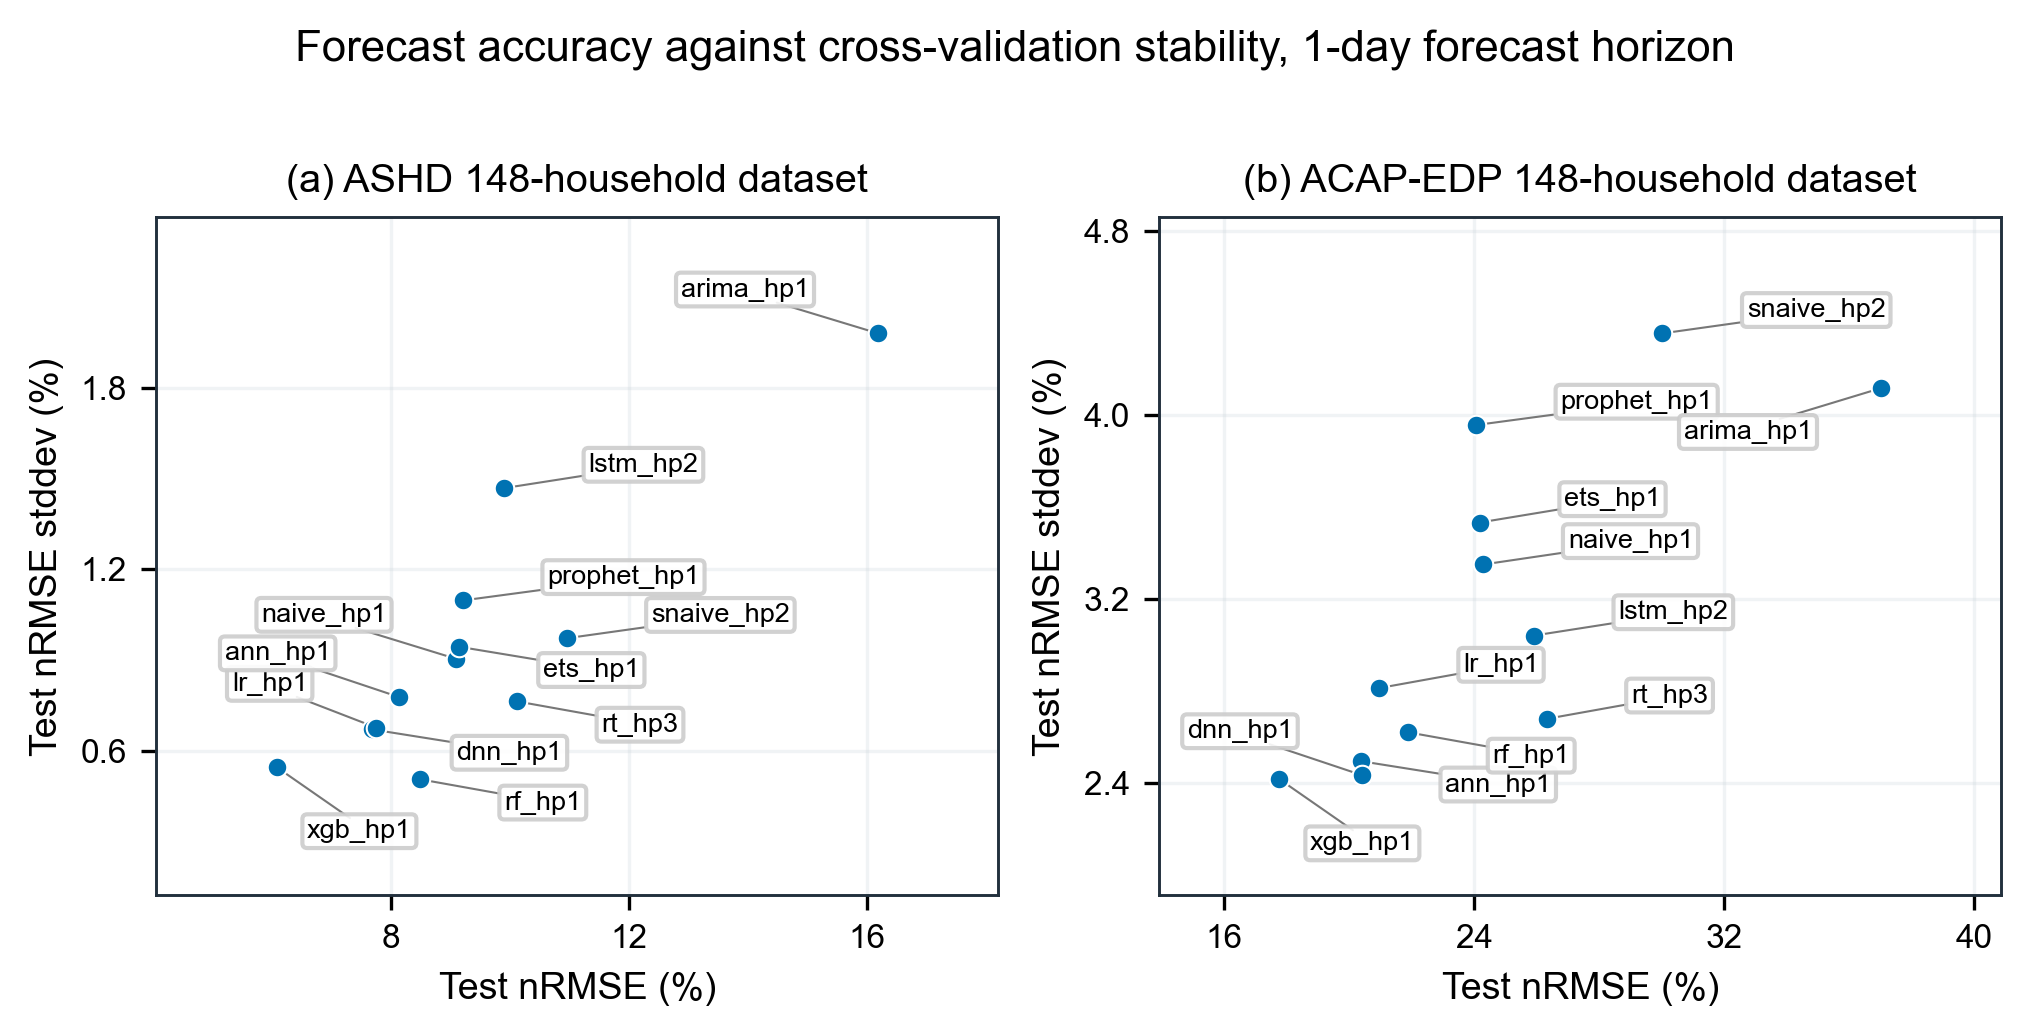
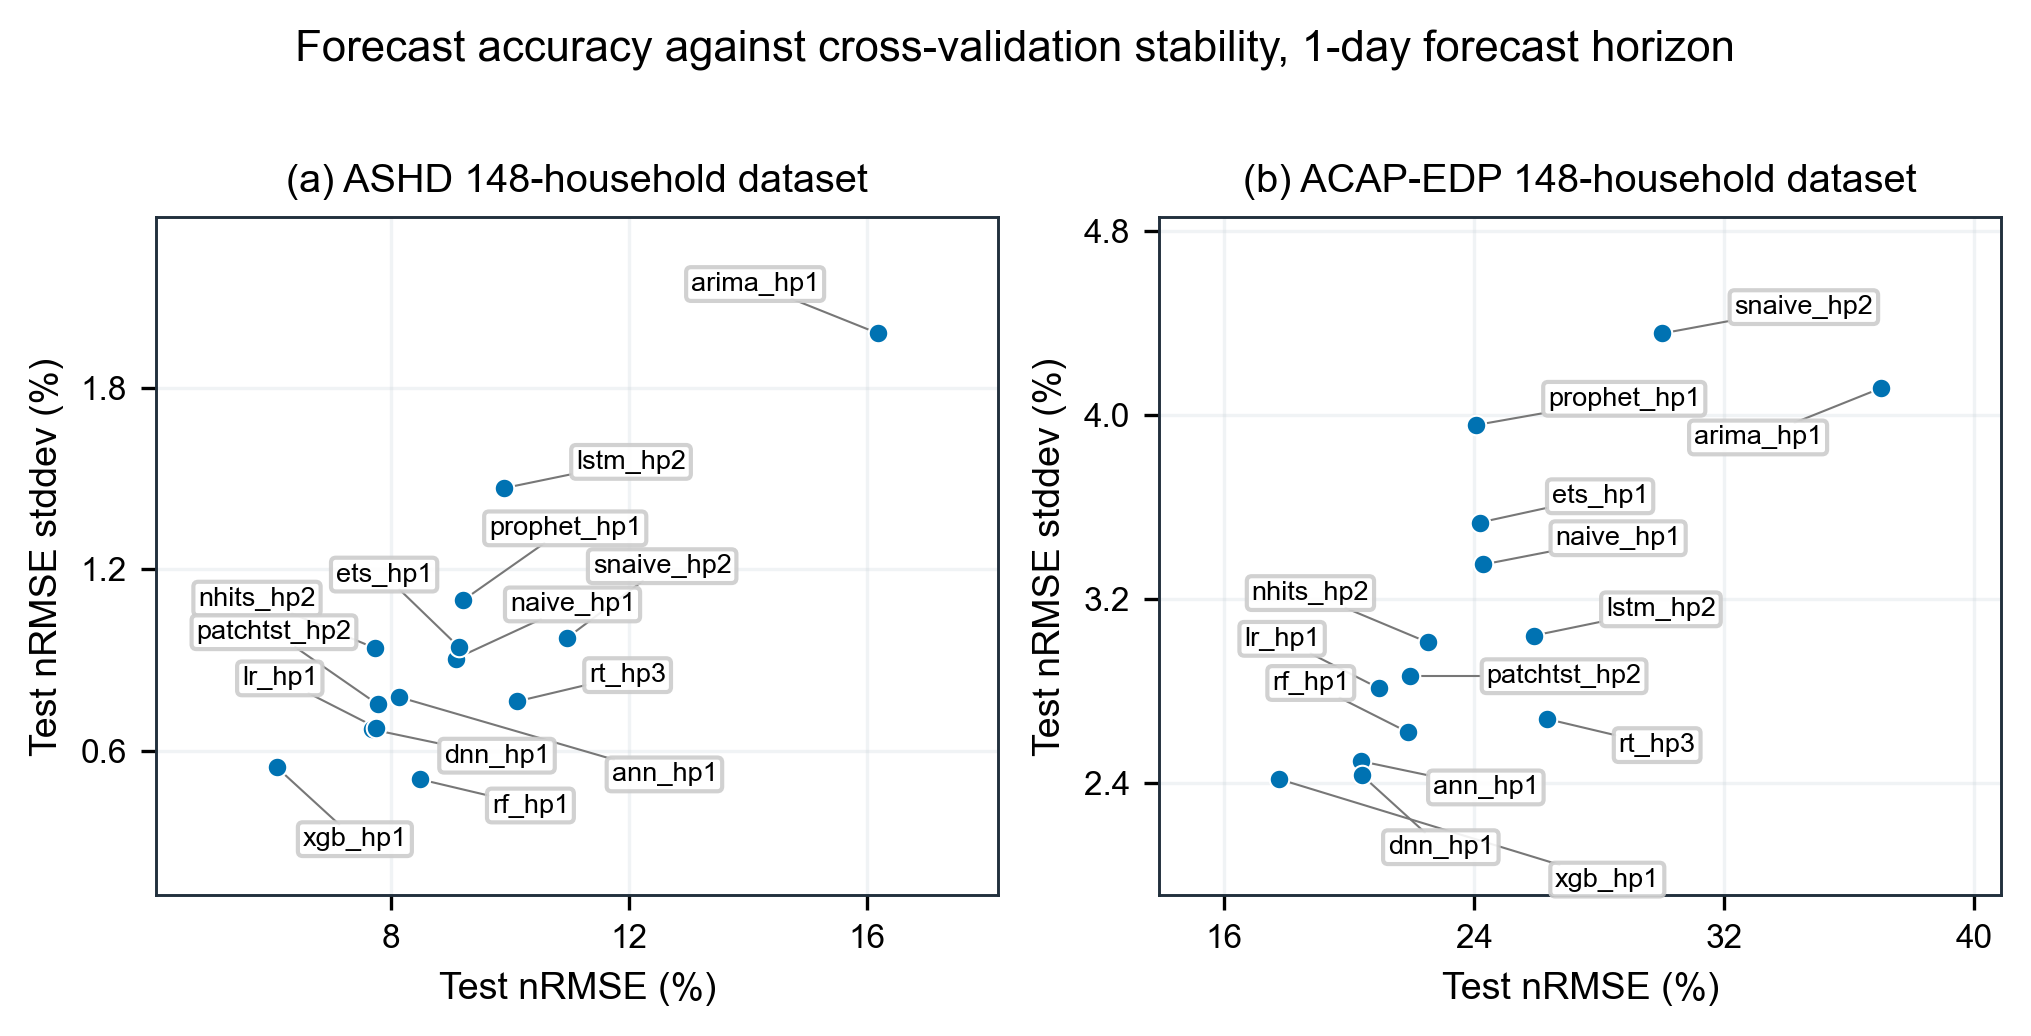
Show all 14 models in the accuracy-against-stability figure
- The two-dataset recap now carries N-HiTS and PatchTST, so figure 32 plots
  14 points per panel; short labels added for the two models
- Scatter labels are placed after tight_layout rather than before, which was
  letting the final layout pass squeeze neighbouring labels into each other,
  and label frames now keep a small clearance from one another

diff --git a/publication/journal_article_1/scripts/generate_paper_figures.py b/publication/journal_article_1/scripts/generate_paper_figures.py
@@ -1645,6 +1645,9 @@ _LABEL_RADII = [r * ANNOTATION_PT / 12.0 for r in (34.0, 52.0, 74.0, 100.0, 130.
 # plotted marker before the placement counts as clean.
 _POINT_CLEARANCE = 9.0 * ANNOTATION_PT / 12.0
 _LEADER_CLEARANCE = 7.0 * ANNOTATION_PT / 12.0
+# Gap kept between label boxes: the text extent excludes the box padding, so two
+# labels whose extents merely touch would draw with their frames overlapping.
+_LABEL_CLEARANCE = 3.0 * ANNOTATION_PT / 12.0
 
 
 def _segment_point_distance(ax_, ay, bx, by, px, py) -> float:
@@ -1753,7 +1756,11 @@ def _place_scatter_labels(fig, ax, points: list[tuple[float, float, str]]) -> No
                     if padded.x0 <= mx <= padded.x1 and padded.y0 <= my <= padded.y1:
                         penalty += 100.0
 
-                penalty += 40.0 * sum(1 for other in placed_boxes if box.overlaps(other))
+                framed = box.expanded(
+                    1.0 + 2 * _LABEL_CLEARANCE * dpi_scale / max(box.width, 1.0),
+                    1.0 + 2 * _LABEL_CLEARANCE * dpi_scale / max(box.height, 1.0),
+                )
+                penalty += 40.0 * sum(1 for other in placed_boxes if framed.overlaps(other))
 
                 # The leader runs from the marker to the centre of the box; charge
                 # for passing close to any other marker on the way.
@@ -1814,8 +1821,14 @@ def _place_scatter_labels(fig, ax, points: list[tuple[float, float, str]]) -> No
         )
 
 
-def _draw_stability_panel(fig, ax, frame: pd.DataFrame, title: str) -> None:
-    """Draw one accuracy-against-stability panel for a full model library."""
+def _draw_stability_panel(fig, ax, frame: pd.DataFrame, title: str) -> list[tuple[float, float, str]]:
+    """Draw one accuracy-against-stability panel for a full model library.
+
+    Returns the (x, y, label) triples for :func:`_place_scatter_labels`, which the
+    caller runs only after ``fig.tight_layout()``: label offsets are chosen in
+    pixels and stored in data coordinates, so any later change to the axes
+    size would move them into each other.
+    """
     frame = frame.sort_values("test_nRMSE")
     x = frame["test_nRMSE"].to_numpy(dtype=float)
     y = frame["test_nRMSE_stddev"].to_numpy(dtype=float)
@@ -1846,7 +1859,7 @@ def _draw_stability_panel(fig, ax, frame: pd.DataFrame, title: str) -> None:
         (float(row.test_nRMSE), float(row.test_nRMSE_stddev), MODEL_SHORT_LABELS.get(str(row.model_name), str(row.model_name)))
         for row in frame.itertuples(index=False)
     ]
-    _place_scatter_labels(fig, ax, labels)
+    return labels
 
 
 def _validate_stability_frame(frame: pd.DataFrame, description: str) -> pd.DataFrame:
@@ -1872,8 +1885,9 @@ def _plot_ashd_stability_scatter() -> Path:
     frame = _validate_stability_frame(frame, "ASHD at the 1-week horizon")
 
     fig, ax = plt.subplots(figsize=page_figsize(8.6, 6.0))
-    _draw_stability_panel(fig, ax, frame, "ASHD 148-household dataset, 1-week forecast horizon")
+    labels = _draw_stability_panel(fig, ax, frame, "ASHD 148-household dataset, 1-week forecast horizon")
     fig.tight_layout()
+    _place_scatter_labels(fig, ax, labels)
     return save_figure(
         fig,
         RESULTS_DIR
@@ -1907,13 +1921,16 @@ def _plot_dataset_stability_scatter_pair() -> Path:
     ]
 
     fig, axes = plt.subplots(1, 2, figsize=page_figsize(17, 8.25))
+    panel_labels = []
     for ax, (panel_id, dataset_label, pretty) in zip(axes, panels):
         frame = recap.loc[recap["dataset_label"].astype(str).eq(dataset_label)].copy()
         frame = _validate_stability_frame(frame, f"{dataset_label} at the 1-day horizon")
-        _draw_stability_panel(fig, ax, frame, f"{panel_id} {pretty}")
+        panel_labels.append((ax, _draw_stability_panel(fig, ax, frame, f"{panel_id} {pretty}")))
 
     fig.suptitle("Forecast accuracy against cross-validation stability, 1-day forecast horizon", y=1.02)
     fig.tight_layout()
+    for ax, labels in panel_labels:
+        _place_scatter_labels(fig, ax, labels)
     return save_figure(
         fig,
         RESULTS_DIR

diff --git a/publication/journal_article_1/scripts/publication_plot_style.py b/publication/journal_article_1/scripts/publication_plot_style.py
@@ -139,6 +139,8 @@ MODEL_SHORT_LABELS = {
     "m13_lstm_hp2": "lstm_hp2",
     "m16_prophet_hp1": "prophet_hp1",
     "m17_xgb_hp1": "xgb_hp1",
+    "m19_nhits_hp2": "nhits_hp2",
+    "m20_patchtst_hp2": "patchtst_hp2",
 }
 
 
